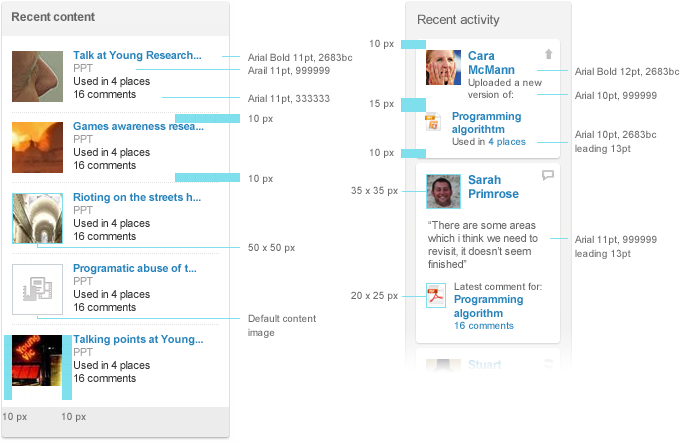
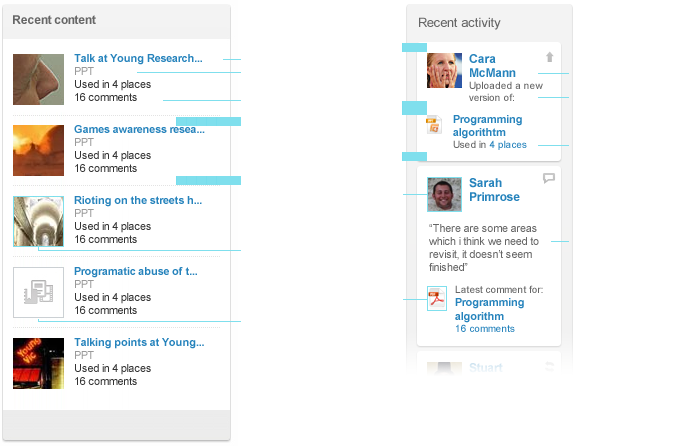
OAEWDGT-40 Remove text that can be copied from images and place in HTML

diff --git a/app/assets/stylesheets/sdk/widgetsdk.css.scss b/app/assets/stylesheets/sdk/widgetsdk.css.scss
@@ -348,6 +348,9 @@
         margin-left: 10px; }
       > span.first {
         margin-left: 0; } } }
+  #widgetexample_dashboard_2 {
+    margin-bottom: 220px !important;
+  }
   #widgetexamples02, #widgetexamples01 {
     h2 {
       border-bottom: 1px dotted #E2E2E2;
